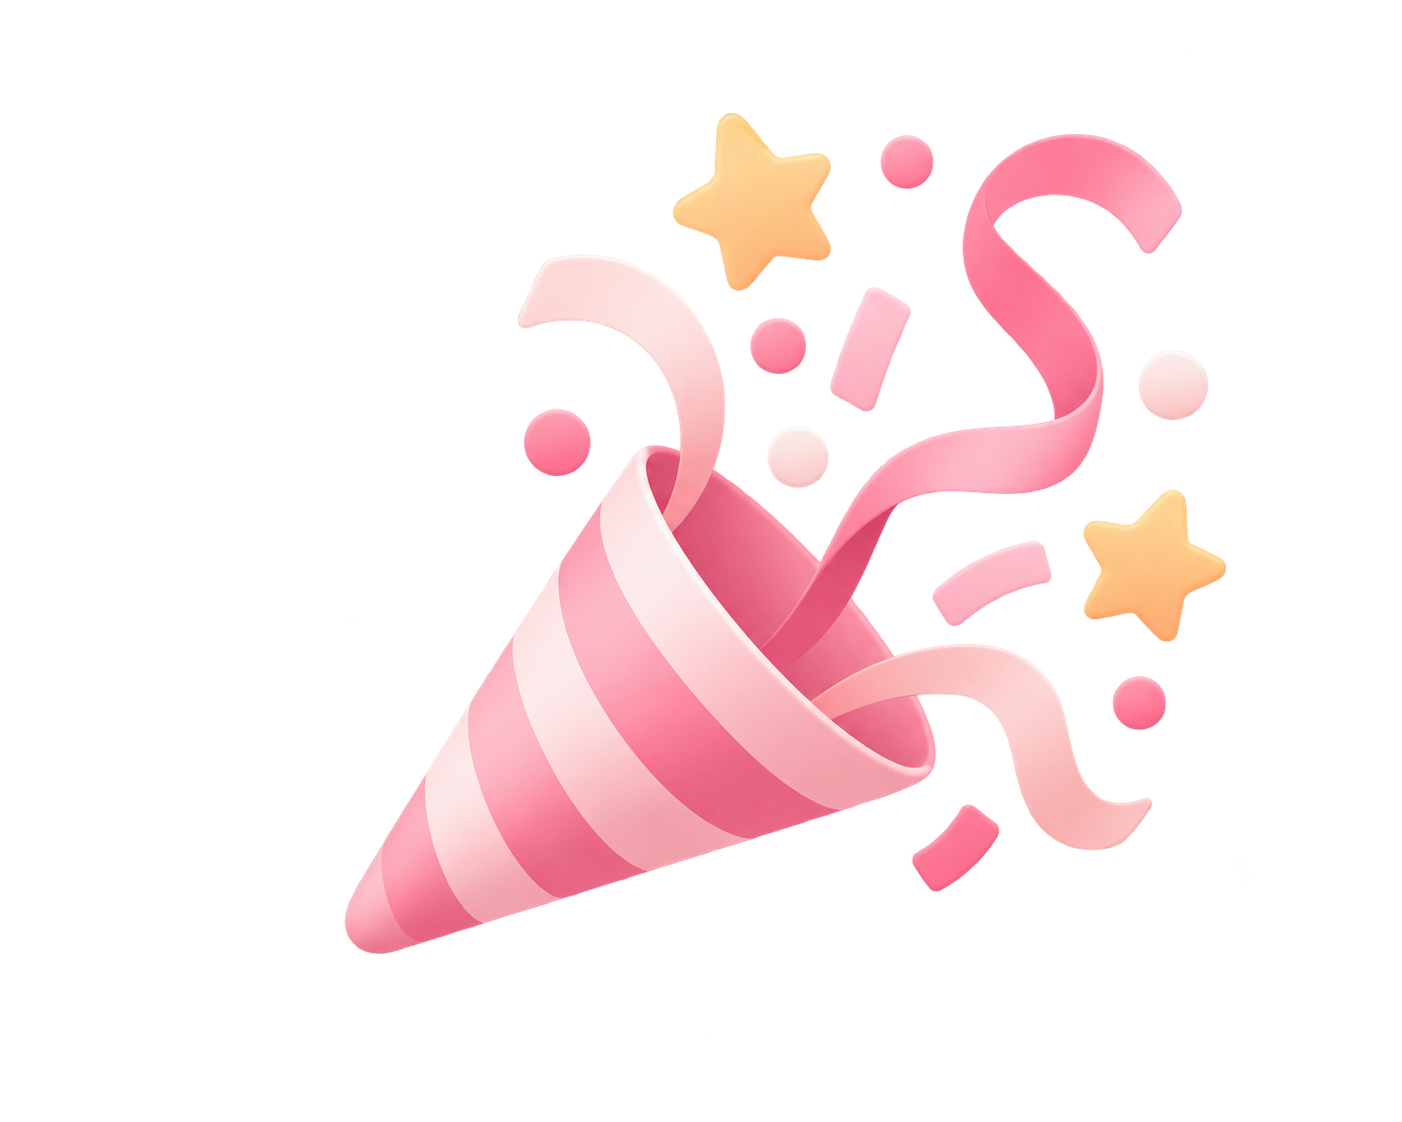
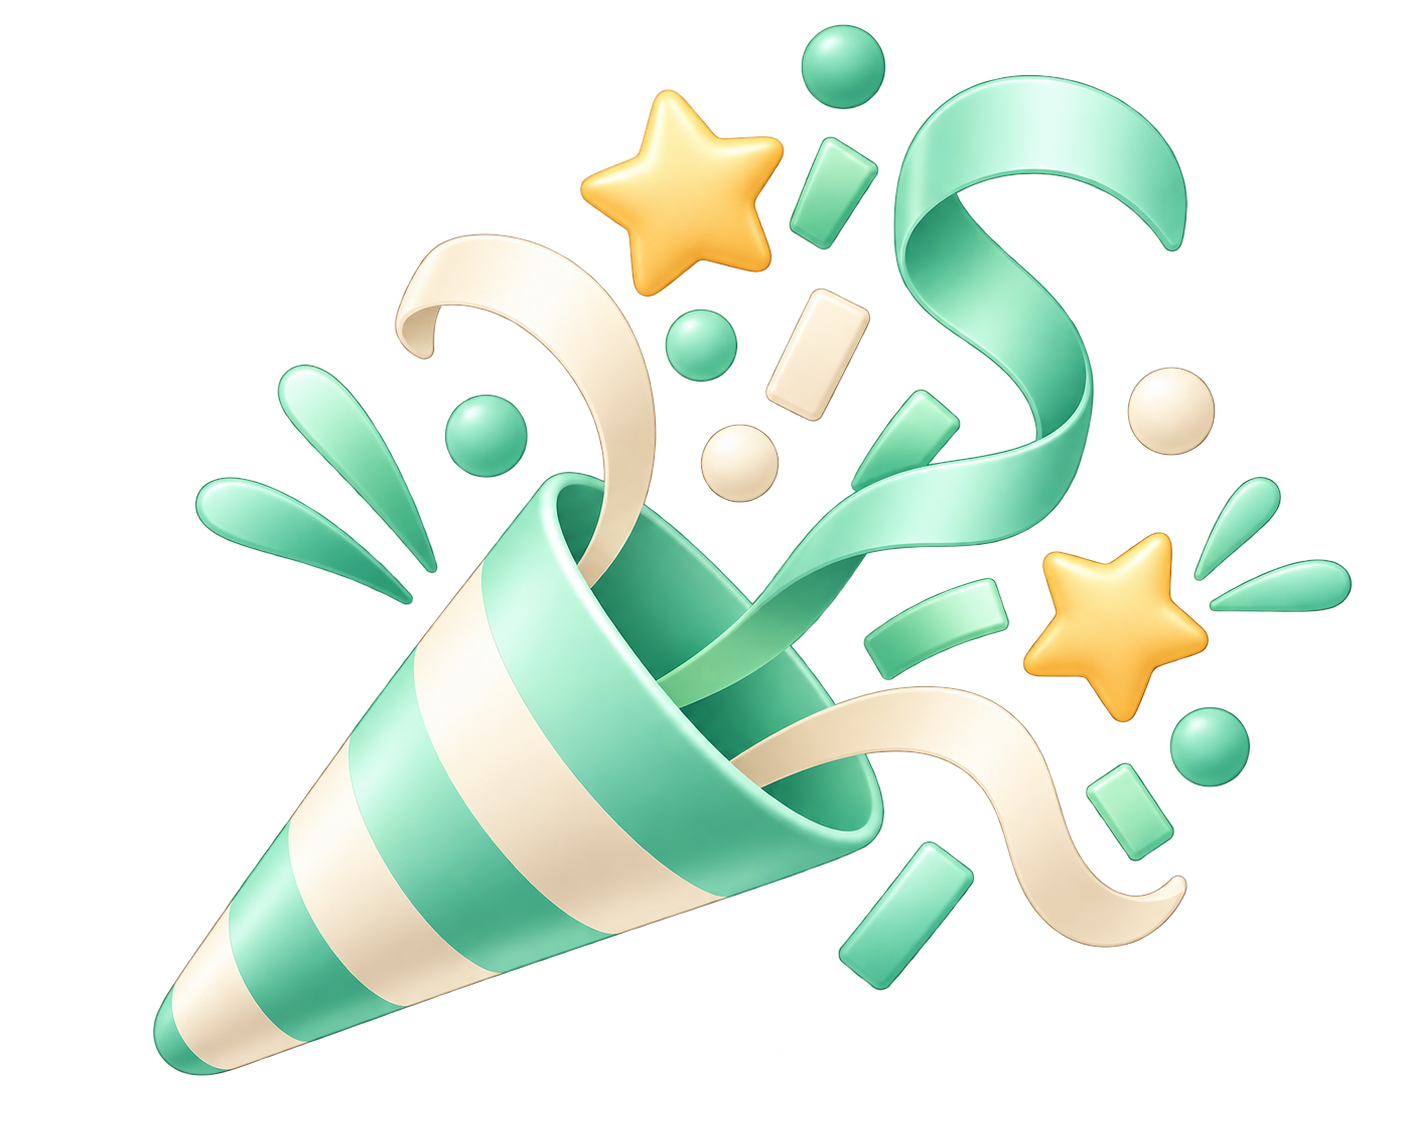
add missing photos

diff --git a/src/data/offers.ts b/src/data/offers.ts
@@ -176,7 +176,7 @@ export const offers: Record<string, Offer> = {
     ],
     highlights: [
       // Images still to come; until then the tiles show an empty placeholder.
-      { image: 'predjela-rolati.png', text: 'Tri vrste slanih rolata' },
+      { image: 'appetizers-variation.png', text: 'Tri vrste slanih rolata' },
       { image: 'canapes-party.png', text: 'Za svaku proslavu' },
     ],
     gallery: [
